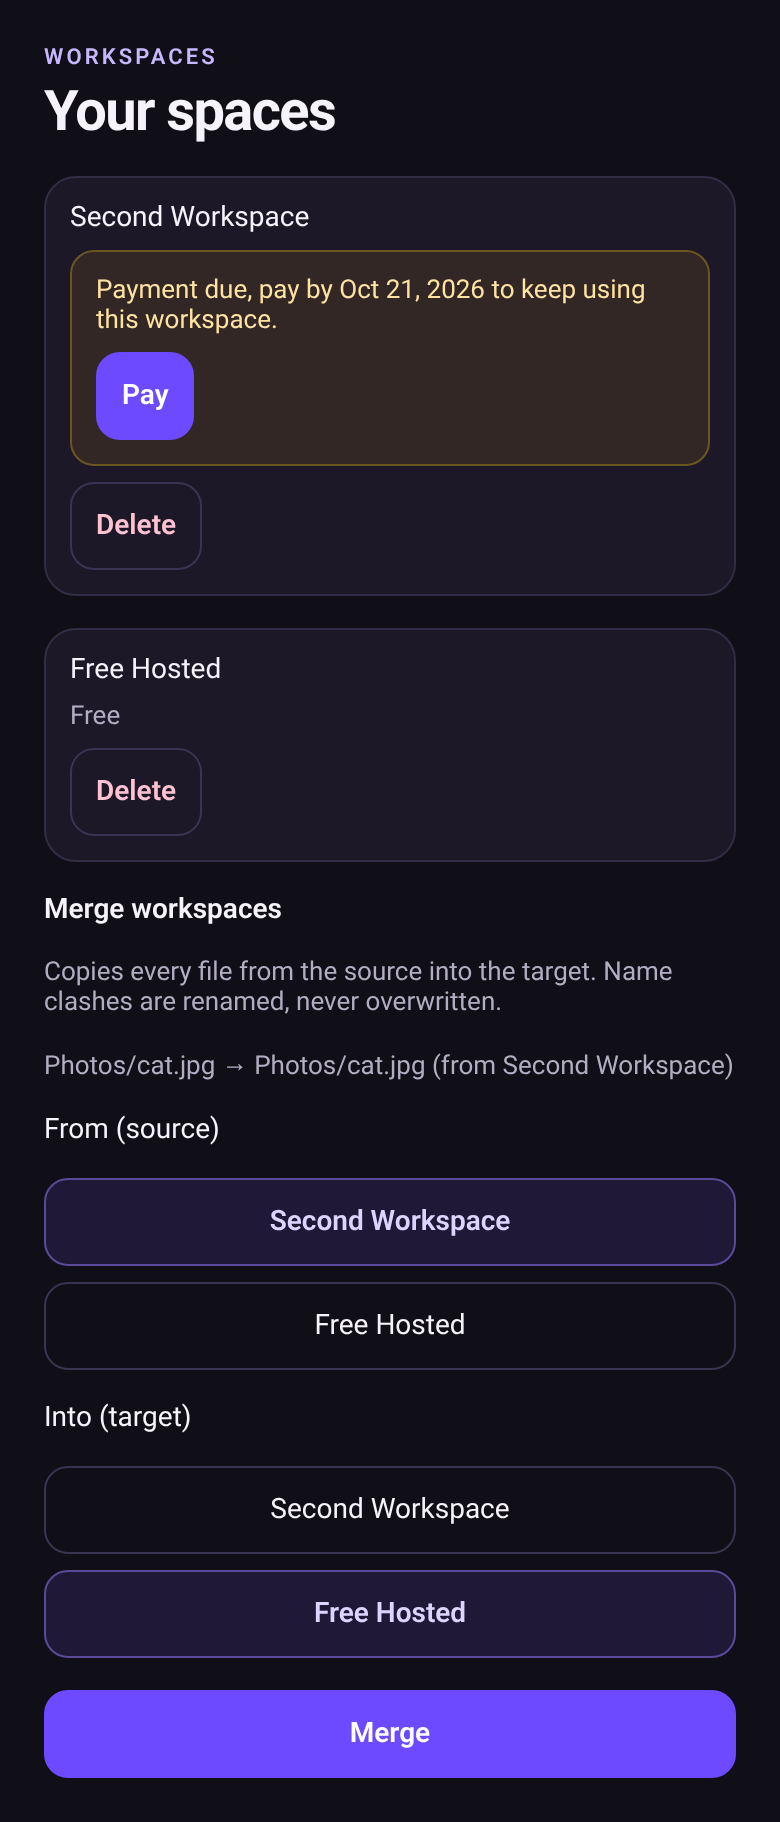
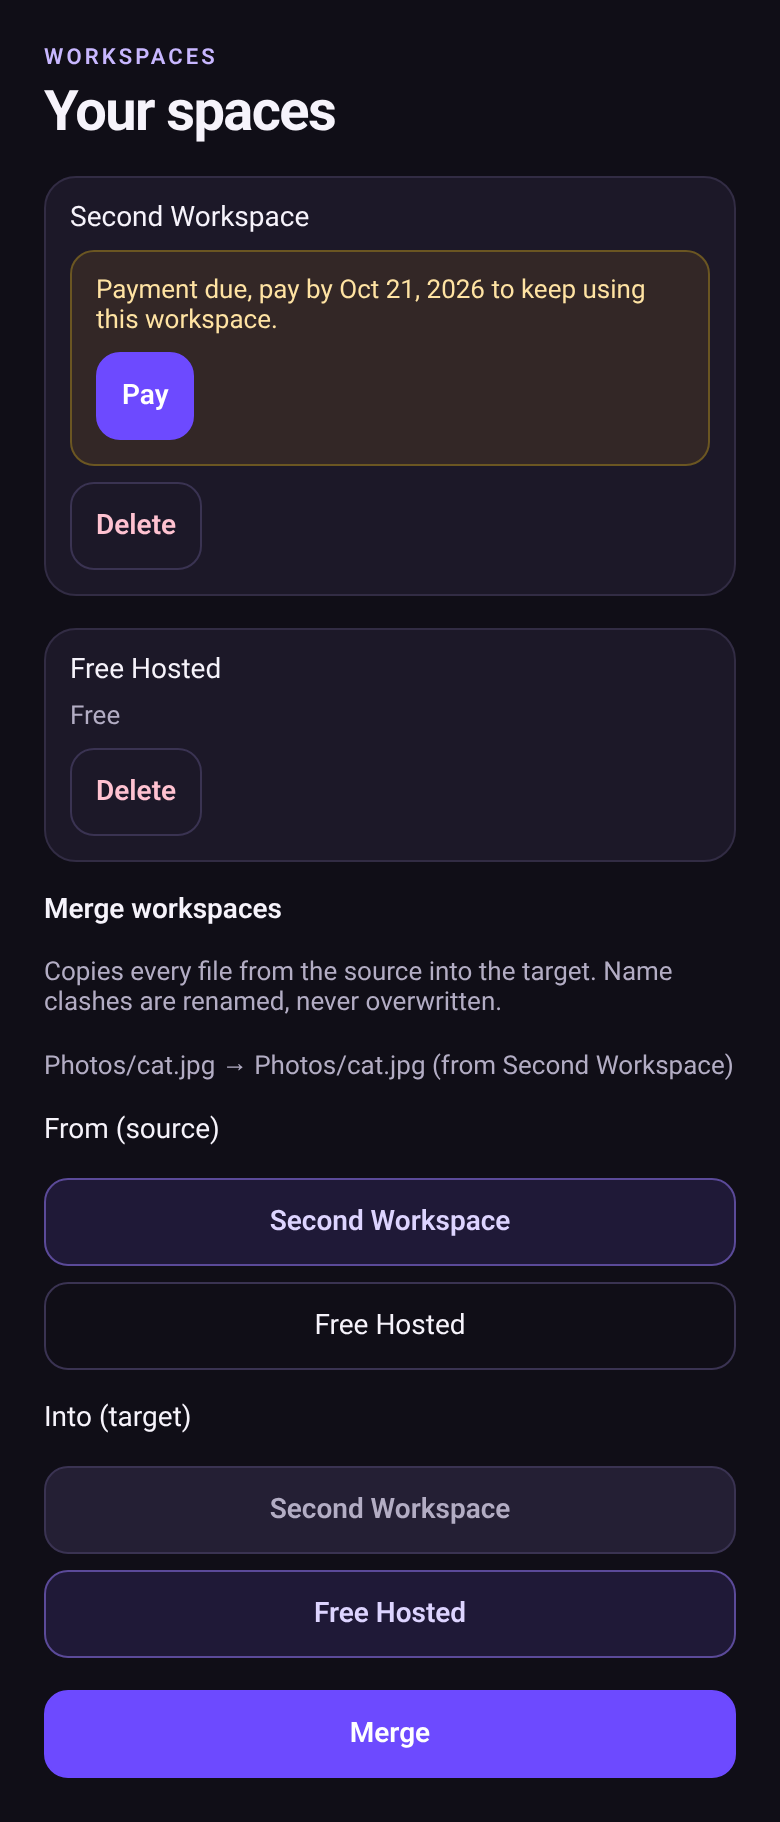
feat(mobile): merge UI guards and clear disabled buttons
- Hide merge pickers and button with fewer than 2 workspaces (server preview/error/result still show)
- Target picker disables the selected source; picking the target as source moves the target
- Disabled buttons use a muted surface and muted text (AA 7.3:1) instead of opacity
- test/merge-ui.test.tsx covers all three; refreshed workspace screenshots

Changed region(s): [[0.0615, 0.7991, 0.9538, 0.8606]]

diff --git a/apps/mobile/src/screens.tsx b/apps/mobile/src/screens.tsx
@@ -369,7 +369,11 @@ export function WorkspacesScreen(props: {
   const feeText = additionalWorkspaceFeeText(props.additionalMonthlyCents);
   const rows = workspacesWithUnpaid(props.workspaces, props.unpaidIds);
   const [sourceId, setSourceId] = useState(rows[0]?.id ?? "");
-  const [targetId, setTargetId] = useState(rows[1]?.id ?? rows[0]?.id ?? "");
+  const [targetId, setTargetId] = useState(rows[1]?.id ?? "");
+  /** Merging needs two distinct workspaces. */
+  const mergeable = rows.length >= 2;
+  /** Server preview, error, or result stay visible, e.g. after a merge leaves one workspace. */
+  const mergeOutcome = Boolean(props.serverPreview || props.mergeError || props.mergeResult?.merged || props.mergedFiles?.length);
   const [pendingDeleteId, setPendingDeleteId] = useState<string | null>(null);
   const [busyMessage, setBusyMessage] = useState<string | null>(null);
   const deletingIds = new Set(rows.filter((workspace) => isDeletingWorkspace(workspace)).map((workspace) => workspace.id));
@@ -475,17 +479,19 @@ export function WorkspacesScreen(props: {
           </View>
         );
       })}
+      {mergeable || mergeOutcome ? (<>
       <SectionLabel>Merge workspaces</SectionLabel>
       <Text style={styles.help}>Copies every file from the source into the target. Name clashes are renamed, never overwritten.</Text>
+      {mergeable && !props.serverPreview ? (
+        <Text style={styles.help}>{localPreview[0] ? `${localPreview[0].sourcePath} → ${localPreview[0].targetPath}` : "Choose two workspaces to preview a merge."}</Text>
+      ) : null}
       {props.serverPreview ? (
         <View testID="merge-preview" style={cardStyle()}>
           {props.serverPreview.files.map((file) => (
             <Text key={file.name} style={styles.help}>{`${file.name} → ${file.renamedTo}`}</Text>
           ))}
         </View>
-      ) : (
-        <Text style={styles.help}>{localPreview[0] ? `${localPreview[0].sourcePath} → ${localPreview[0].targetPath}` : "Choose two workspaces to preview a merge."}</Text>
-      )}
+      ) : null}
       {props.mergeError ? <Banner testID="merge-error">{props.mergeError}</Banner> : null}
       {props.mergeResult?.merged ? (
         <Text testID="merge-result" style={styles.help}>
@@ -495,6 +501,8 @@ export function WorkspacesScreen(props: {
       {props.mergedFiles?.map((file) => (
         <Text key={file.id} testID={`merged-file-${file.id}`} style={styles.help}>{file.name}</Text>
       ))}
+      </>) : null}
+      {mergeable ? (<>
       <Text style={styles.label}>From (source)</Text>
       <View testID="merge-source" accessibilityRole="radiogroup" accessibilityLabel="Merge source" style={styles.choices}>
         {rows.map((workspace) => (
@@ -506,7 +514,10 @@ export function WorkspacesScreen(props: {
             testID={`merge-source-${workspace.id}`}
             accessibilityLabel={`Merge source ${workspace.name}`}
             disabled={deletingIds.has(workspace.id)}
-            onPress={() => setSourceId(workspace.id)}
+            onPress={() => {
+              setSourceId(workspace.id);
+              if (targetId === workspace.id) setTargetId(rows.find((row) => row.id !== workspace.id)?.id ?? "");
+            }}
           />
         ))}
       </View>
@@ -520,7 +531,8 @@ export function WorkspacesScreen(props: {
             selected={targetId === workspace.id}
             testID={`merge-target-${workspace.id}`}
             accessibilityLabel={`Merge target ${workspace.name}`}
-            disabled={deletingIds.has(workspace.id)}
+            accessibilityHint={workspace.id === sourceId ? "Already selected as the source" : undefined}
+            disabled={deletingIds.has(workspace.id) || workspace.id === sourceId}
             onPress={() => setTargetId(workspace.id)}
           />
         ))}
@@ -532,6 +544,7 @@ export function WorkspacesScreen(props: {
         disabled={!sourceId || !targetId || sourceId === targetId || deletingIds.has(sourceId) || deletingIds.has(targetId)}
         onPress={() => props.onMerge(sourceId, targetId)}
       />
+      </>) : null}
     </Screen>
   );
 }

diff --git a/apps/mobile/test/merge-ui.test.tsx b/apps/mobile/test/merge-ui.test.tsx
@@ -1,0 +1,56 @@
+import { fireEvent, render } from "@testing-library/react-native";
+import { StyleSheet } from "react-native";
+import { WorkspacesScreen } from "../src/screens";
+import { colors, contrastRatio } from "../src/theme";
+
+const A = { id: "11111111-1111-4111-8111-00000000000a", name: "Alpha", kind: "paid" as const, projectStatus: "active" as const };
+const B = { id: "11111111-1111-4111-8111-00000000000b", name: "Beta", kind: "paid" as const, projectStatus: "active" as const };
+
+function screenWith(workspaces: (typeof A)[], onMerge = jest.fn()) {
+  return render(<WorkspacesScreen workspaces={workspaces} unpaidIds={[]} onDelete={() => undefined} onMerge={onMerge} />);
+}
+
+function flatStyle(node: { props: { style?: unknown } }) {
+  const style = node.props.style;
+  return StyleSheet.flatten(typeof style === "function" ? style({ pressed: false }) : style) ?? {};
+}
+
+describe("merge workspaces UI", () => {
+  it("hides the whole merge section with fewer than 2 workspaces", async () => {
+    const one = await screenWith([A]);
+    expect(one.queryByText("Merge workspaces")).toBeNull();
+    expect(one.queryByTestId("merge-source")).toBeNull();
+    expect(one.queryByTestId("merge-target")).toBeNull();
+    expect(one.queryByTestId("merge-workspaces")).toBeNull();
+    const none = await screenWith([]);
+    expect(none.queryByTestId("merge-workspaces")).toBeNull();
+    const two = await screenWith([A, B]);
+    expect(two.getByTestId("merge-workspaces")).toBeTruthy();
+  });
+
+  it("disables the source workspace in the target picker so they never match", async () => {
+    const onMerge = jest.fn();
+    const screen = await screenWith([A, B], onMerge);
+    expect(screen.getByTestId(`merge-target-${A.id}`).props.accessibilityState.disabled).toBe(true);
+    expect(screen.getByTestId(`merge-target-${B.id}`).props.accessibilityState.disabled).toBe(false);
+    // Choosing the current target as source moves the target off it.
+    await fireEvent.press(screen.getByTestId(`merge-source-${B.id}`));
+    expect(screen.getByTestId(`merge-target-${B.id}`).props.accessibilityState.disabled).toBe(true);
+    expect(screen.getByTestId(`merge-target-${A.id}`).props.accessibilityState.checked).toBe(true);
+    await fireEvent.press(screen.getByTestId(`merge-target-${B.id}`));
+    await fireEvent.press(screen.getByTestId("merge-workspaces"));
+    expect(onMerge).toHaveBeenCalledWith(B.id, A.id);
+  });
+
+  it("a disabled Merge button reads as disabled with AA text", async () => {
+    const screen = await screenWith([A, { ...B, projectStatus: "deleting" as never }]);
+    const merge = screen.getByTestId("merge-workspaces");
+    expect(merge.props.accessibilityState.disabled).toBe(true);
+    const style = flatStyle(merge);
+    expect(style.backgroundColor).toBe(colors.surfaceRaised);
+    expect(style.opacity).toBeUndefined();
+    const label = screen.getByText("Merge");
+    expect(StyleSheet.flatten(label.props.style).color).toBe(colors.muted);
+    expect(contrastRatio(colors.muted, colors.surfaceRaised)).toBeGreaterThanOrEqual(4.5);
+  });
+});

diff --git a/apps/mobile/src/ui.tsx b/apps/mobile/src/ui.tsx
@@ -62,7 +62,9 @@ export function Button(props: {
 } & Pick<PressableProps, "accessibilityHint">) {
   const tone = props.tone ?? "primary";
   const isChoice = typeof props.selected === "boolean";
-  const textStyle = props.destructive || tone === "danger"
+  const textStyle = props.disabled
+    ? styles.disabledText
+    : props.destructive || tone === "danger"
     ? styles.dangerText
     : tone === "primary"
       ? styles.primaryText
@@ -205,7 +207,9 @@ const styles = StyleSheet.create({
   secondary: { backgroundColor: colors.secondaryBg, borderColor: colors.secondaryBorder },
   danger: { backgroundColor: colors.dangerBg, borderColor: colors.dangerBorder },
   ghost: { backgroundColor: "transparent", borderColor: colors.border },
-  disabled: { opacity: 0.4 },
+  /** Muted surface + muted text instead of opacity, so the label keeps AA contrast. */
+  disabled: { backgroundColor: colors.surfaceRaised, borderColor: colors.border },
+  disabledText: { color: colors.muted, fontSize: typeScale.bodySize, fontWeight: typeScale.buttonWeight },
   pressed: { opacity: 0.8 },
   primaryText: { color: colors.primaryText, fontSize: typeScale.bodySize, fontWeight: typeScale.buttonWeight },
   secondaryText: { color: colors.secondaryText, fontSize: typeScale.bodySize, fontWeight: typeScale.buttonWeight },
